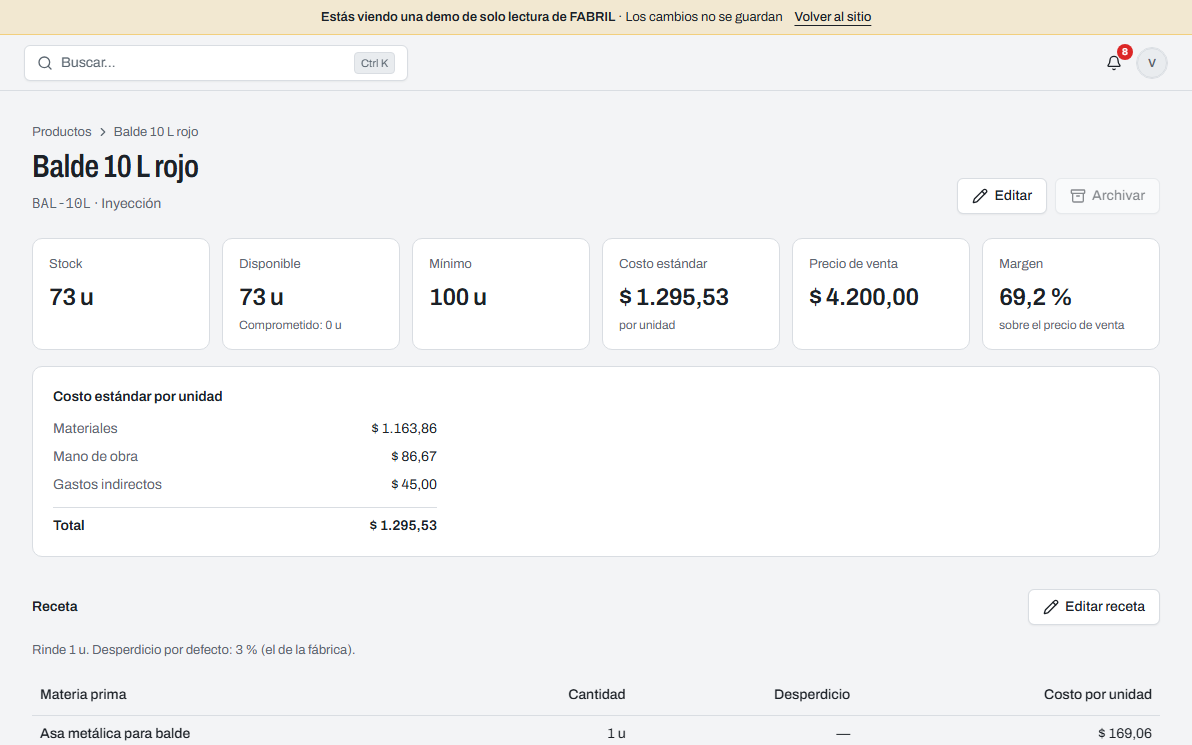
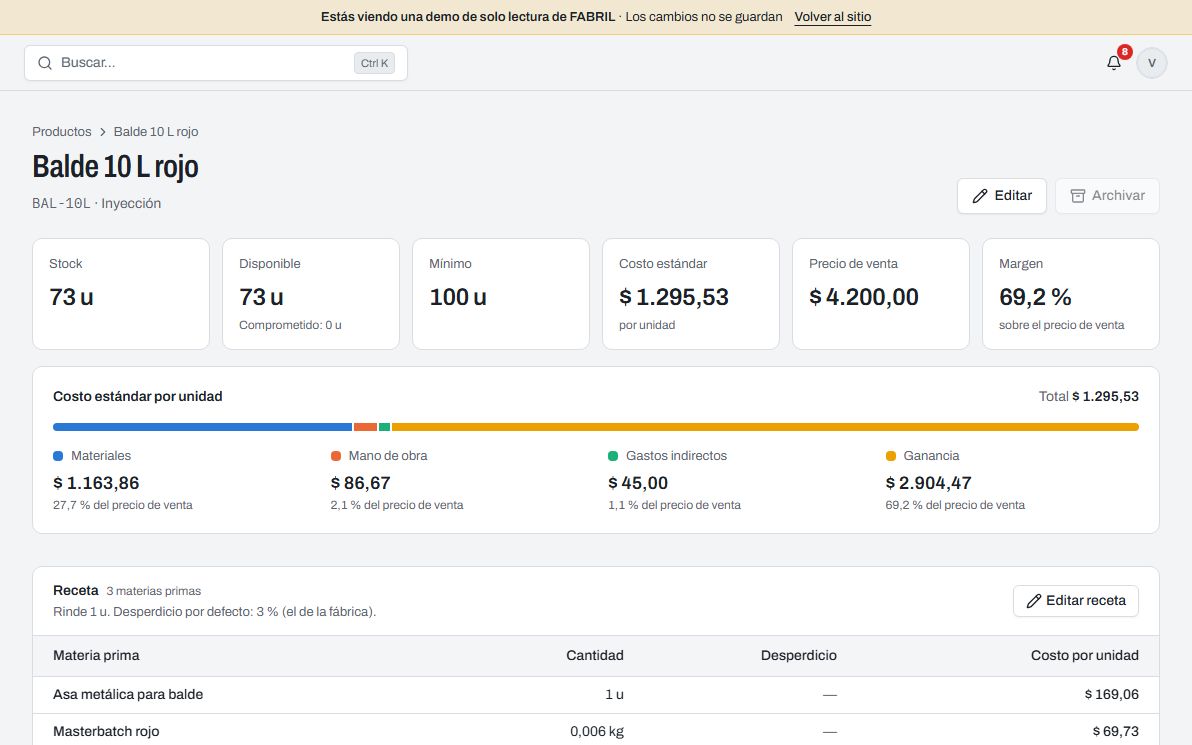
feat(landing): diagrama «Así se conecta todo», sección «Cómo está hecho» y capturas actualizadas

diff --git a/src/features/marketing/content.ts b/src/features/marketing/content.ts
@@ -1,8 +1,13 @@
 import {
   Calculator,
   ClipboardList,
+  Database,
+  Eye,
   Factory,
+  FlaskConical,
+  ShieldCheck,
   ShoppingCart,
+  Truck,
   Warehouse,
   type LucideIcon,
 } from "lucide-react";
@@ -10,6 +15,7 @@ import {
 export const NAV_LINKS = [
   { href: "#funcionalidades", label: "Funcionalidades" },
   { href: "#como-funciona", label: "Cómo funciona" },
+  { href: "#como-esta-hecho", label: "Cómo está hecho" },
   { href: "#preguntas", label: "Preguntas" },
 ] as const;
 
@@ -147,3 +153,73 @@ export const FAQ = [
     a: "No. FABRIL funciona en el navegador; sólo necesitás conexión a internet y tu usuario.",
   },
 ] as const;
+
+/**
+ * Diagrama del hero: qué pasa con el stock y el costo en cada paso. Sigue el ejemplo de la
+ * calculadora (Bidón 5 L azul: 0,25 kg de Polietileno AD por unidad + 3 % de desperdicio; había
+ * 200 kg y faltaban 57,5 kg para 1.000 unidades).
+ */
+export const FLOW: { title: string; body: string; result: string; icon: LucideIcon }[] = [
+  {
+    title: "Llega la compra",
+    body: "Recibís 500 kg de Polietileno AD a $ 1.000 el kilo.",
+    result: "Stock 700 kg · costo promedio al día",
+    icon: Truck,
+  },
+  {
+    title: "Planificás la orden",
+    body: "1.000 bidones: la receta pide 257,5 kg con el 3 % de desperdicio.",
+    result: "Alcanza: ya no falta material",
+    icon: ClipboardList,
+  },
+  {
+    title: "Producís",
+    body: "Al iniciar se descuentan los materiales; los partes suman 980 buenas y 20 defectuosas.",
+    result: "Quedan 442,5 kg de Polietileno AD",
+    icon: Factory,
+  },
+  {
+    title: "Cerrás con el costo real",
+    body: "Entran 980 bidones al stock, valorizados con lo que realmente se consumió.",
+    result: "$ 564 por unidad vs. $ 548 planificados",
+    icon: Calculator,
+  },
+];
+
+/** "Cómo está hecho": lo que la demo no muestra por sí sola. Todo verificable en el código. */
+export const BUILD_FACTS: { title: string; body: string; icon: LucideIcon }[] = [
+  {
+    title: "Cada fábrica, aislada en la base",
+    body: "Políticas de seguridad (RLS) en todas las tablas de Postgres: un usuario de otra fábrica no ve ni modifica nada, aunque arme el pedido a mano.",
+    icon: ShieldCheck,
+  },
+  {
+    title: "La lógica crítica vive en la base",
+    body: "Recibir compras, consumir materiales y cerrar órdenes son funciones de la base que corren en una sola transacción: el stock nunca queda a medias.",
+    icon: Database,
+  },
+  {
+    title: "Demo abierta, pero de solo lectura",
+    body: "Sin cuenta ni contraseña. El visitante no tiene permisos de escritura en la base y nunca ve quién hizo cada cosa.",
+    icon: Eye,
+  },
+  {
+    title: "Más de 1.000 pruebas automáticas",
+    body: "Unitarias, de componentes y de SQL contra un Postgres real (PGlite): stock, costos, permisos y aislamiento entre fábricas.",
+    icon: FlaskConical,
+  },
+];
+
+export const STACK = [
+  "Next.js 16",
+  "TypeScript",
+  "Supabase",
+  "PostgreSQL",
+  "Tailwind CSS",
+  "shadcn/ui",
+  "Recharts",
+  "Vitest",
+  "Playwright",
+] as const;
+
+export const REPO_URL = "https://github.com/FrancoCortez2000/fabril-test";

diff --git a/src/features/marketing/components/landing-extras.test.tsx b/src/features/marketing/components/landing-extras.test.tsx
@@ -1,0 +1,61 @@
+// @vitest-environment jsdom
+import { render, screen, within } from "@testing-library/react";
+
+import { BuiltWith } from "@/features/marketing/components/built-with";
+import { Hero } from "@/features/marketing/components/hero";
+import { SiteHeader } from "@/features/marketing/components/site-header";
+import { BUILD_FACTS, FLOW, STACK } from "@/features/marketing/content";
+
+describe("diagrama del hero: cómo se conecta todo", () => {
+  test("es una figura con título y los cuatro pasos en orden", () => {
+    render(<Hero />);
+    const figure = screen.getByRole("figure", { name: /Así se conecta todo/ });
+    const steps = within(figure).getAllByRole("listitem");
+    expect(steps).toHaveLength(4);
+    expect(steps.map((s) => within(s).getByRole("heading").textContent)).toEqual(
+      FLOW.map((f) => f.title),
+    );
+  });
+
+  test("sigue el ejemplo de la calculadora: la compra cubre los 57,5 kg que faltaban", () => {
+    render(<Hero />);
+    const figure = screen.getByRole("figure", { name: /Así se conecta todo/ });
+    expect(within(figure).getByText(/257,5 kg/)).toBeVisible();
+    expect(within(figure).getByText(/Ejemplo/)).toBeVisible();
+    expect(figure).toHaveTextContent(/costo real/i);
+  });
+
+  test("cada paso tiene un resultado (qué cambió en el stock o el costo)", () => {
+    for (const step of FLOW) {
+      expect(step.result.length).toBeGreaterThan(3);
+      expect(step.body.length).toBeGreaterThan(10);
+    }
+  });
+});
+
+describe("sección «Cómo está hecho»", () => {
+  test("es una región con los datos técnicos verificables y el stack", () => {
+    render(<BuiltWith />);
+    const region = screen.getByRole("region", { name: "Cómo está hecho" });
+    for (const fact of BUILD_FACTS) {
+      expect(within(region).getByRole("heading", { name: fact.title })).toBeVisible();
+    }
+    for (const tech of STACK) expect(within(region).getByText(tech)).toBeVisible();
+  });
+
+  test("enlaza al código en GitHub en una pestaña nueva y segura", () => {
+    render(<BuiltWith />);
+    const link = screen.getByRole("link", { name: /Ver el código en GitHub/ });
+    expect(link).toHaveAttribute("href", "https://github.com/FrancoCortez2000/fabril-test");
+    expect(link).toHaveAttribute("target", "_blank");
+    expect(link.getAttribute("rel")).toMatch(/noopener/);
+  });
+
+  test("el encabezado de la landing lleva a la sección", () => {
+    render(<SiteHeader />);
+    expect(screen.getByRole("link", { name: "Cómo está hecho" })).toHaveAttribute(
+      "href",
+      "#como-esta-hecho",
+    );
+  });
+});

diff --git a/src/features/marketing/components/flow-diagram.tsx b/src/features/marketing/components/flow-diagram.tsx
@@ -1,0 +1,60 @@
+import { ArrowDown, ArrowRight } from "lucide-react";
+
+import { FLOW } from "@/features/marketing/content";
+
+/**
+ * Diagrama "Así se conecta todo": el recorrido completo de una compra hasta el costo real, con el
+ * ejemplo de la calculadora. Es HTML (no una imagen): nítido, accesible y con modo oscuro.
+ */
+export function FlowDiagram() {
+  return (
+    <figure aria-labelledby="flujo-titulo" className="rounded-xl border bg-surface p-5 sm:p-7">
+      <div className="flex flex-wrap items-baseline justify-between gap-x-6 gap-y-1">
+        <h2 id="flujo-titulo" className="font-display text-2xl leading-tight sm:text-3xl">
+          Así se conecta todo
+        </h2>
+        <figcaption className="text-13 text-muted-foreground">
+          Ejemplo con el bidón de la calculadora: la compra cubre los 57,5 kg que faltaban.
+        </figcaption>
+      </div>
+
+      <ol className="mt-6 grid gap-8 lg:grid-cols-4 lg:gap-6">
+        {FLOW.map((step, i) => {
+          const Icon = step.icon;
+          const last = i === FLOW.length - 1;
+          return (
+            <li key={step.title} className="relative flex flex-col">
+              <div className="flex items-center gap-3">
+                <span className="flex size-9 shrink-0 items-center justify-center rounded-lg border bg-surface-2">
+                  <Icon aria-hidden className="size-4" />
+                </span>
+                <span className="font-mono text-xs text-muted-foreground" aria-hidden>
+                  Paso {i + 1}
+                </span>
+              </div>
+              <h3 className="mt-3 text-base font-semibold">{step.title}</h3>
+              <p className="mt-1.5 text-13 text-muted-foreground">{step.body}</p>
+              <p className="mt-3 border-l-2 border-brand pl-3 text-13 font-medium lg:mt-auto lg:pt-3">
+                {step.result}
+              </p>
+
+              {/* Flecha al paso siguiente: a la derecha en escritorio, abajo en el celular. */}
+              {last ? null : (
+                <>
+                  <ArrowRight
+                    aria-hidden
+                    className="absolute top-2 -right-5 hidden size-4 text-muted-foreground lg:block"
+                  />
+                  <ArrowDown
+                    aria-hidden
+                    className="absolute -bottom-7 left-3 size-4 text-muted-foreground lg:hidden"
+                  />
+                </>
+              )}
+            </li>
+          );
+        })}
+      </ol>
+    </figure>
+  );
+}

diff --git a/src/features/marketing/components/built-with.tsx b/src/features/marketing/components/built-with.tsx
@@ -1,0 +1,63 @@
+import { ExternalLink } from "lucide-react";
+
+import { Button } from "@/components/ui/button";
+import { BUILD_FACTS, REPO_URL, STACK } from "@/features/marketing/content";
+
+/** "Cómo está hecho": lo que la demo no puede mostrar (seguridad, base de datos y pruebas). */
+export function BuiltWith() {
+  return (
+    <section
+      id="como-esta-hecho"
+      aria-labelledby="como-esta-hecho-titulo"
+      className="scroll-mt-20 border-b"
+    >
+      <div className="mx-auto w-full max-w-6xl px-4 py-16 sm:px-6 lg:py-20">
+        <div className="flex flex-wrap items-end justify-between gap-6">
+          <div className="max-w-2xl">
+            <h2 id="como-esta-hecho-titulo" className="font-display text-4xl leading-tight">
+              Cómo está hecho
+            </h2>
+            <p className="mt-3 text-base text-muted-foreground">
+              Lo que no se ve en la demo: dónde vive la lógica, cómo se protegen los datos y cómo se
+              prueba.
+            </p>
+          </div>
+          <Button variant="outline" asChild>
+            <a href={REPO_URL} target="_blank" rel="noopener noreferrer">
+              Ver el código en GitHub
+              <ExternalLink aria-hidden />
+            </a>
+          </Button>
+        </div>
+
+        <ul className="mt-10 grid gap-4 sm:grid-cols-2">
+          {BUILD_FACTS.map((fact) => {
+            const Icon = fact.icon;
+            return (
+              <li key={fact.title} className="flex gap-4 rounded-xl border bg-surface p-5">
+                <span className="flex size-9 shrink-0 items-center justify-center rounded-lg border bg-surface-2">
+                  <Icon aria-hidden className="size-4" />
+                </span>
+                <div className="min-w-0">
+                  <h3 className="text-base font-semibold">{fact.title}</h3>
+                  <p className="mt-1.5 text-13 text-muted-foreground">{fact.body}</p>
+                </div>
+              </li>
+            );
+          })}
+        </ul>
+
+        <div className="mt-8">
+          <p className="text-xs font-medium text-muted-foreground">Tecnologías</p>
+          <ul className="mt-2 flex flex-wrap gap-2" aria-label="Tecnologías">
+            {STACK.map((tech) => (
+              <li key={tech} className="rounded-md border bg-surface px-2.5 py-1 font-mono text-xs">
+                {tech}
+              </li>
+            ))}
+          </ul>
+        </div>
+      </div>
+    </section>
+  );
+}

diff --git a/src/features/marketing/components/hero.tsx b/src/features/marketing/components/hero.tsx
@@ -2,7 +2,7 @@ import Link from "next/link";
 
 import { Button } from "@/components/ui/button";
 import { BomCalculator } from "@/features/marketing/components/bom-calculator";
-import { ScreenshotFrame } from "@/features/marketing/components/screenshot-frame";
+import { FlowDiagram } from "@/features/marketing/components/flow-diagram";
 
 export function Hero() {
   return (
@@ -31,10 +31,7 @@ export function Hero() {
         <BomCalculator />
       </div>
       <div className="mx-auto w-full max-w-6xl px-4 pb-16 sm:px-6 lg:pb-24">
-        <ScreenshotFrame
-          label="Dashboard de FABRIL con datos de demostración"
-          src="/capturas/dashboard.png"
-        />
+        <FlowDiagram />
       </div>
     </section>
   );

diff --git a/src/app/(marketing)/page.tsx b/src/app/(marketing)/page.tsx
@@ -1,6 +1,7 @@
 import { SkipLink } from "@/components/layout/skip-link";
 import type { Metadata } from "next";
 
+import { BuiltWith } from "@/features/marketing/components/built-with";
 import { DemoSection } from "@/features/marketing/components/demo-section";
 import { Faq } from "@/features/marketing/components/faq";
 import { Hero } from "@/features/marketing/components/hero";
@@ -32,6 +33,7 @@ export default function LandingPage() {
         <Problems />
         <ModulesShowcase />
         <HowItWorks />
+        <BuiltWith />
         <Faq />
         <DemoSection />
       </main>

diff --git a/src/features/marketing/components/screenshot-frame.test.tsx b/src/features/marketing/components/screenshot-frame.test.tsx
@@ -47,10 +47,7 @@ test("la sección de funcionalidades muestra una captura por módulo", () => {
   }
 });
 
-test("el hero muestra la captura del dashboard", () => {
+test("el hero ya no muestra la captura del Inicio (es lo primero que se ve en la demo)", () => {
   render(<Hero />);
-  expect(screen.getByRole("img", { name: /Dashboard/ })).toHaveAttribute(
-    "src",
-    "/capturas/dashboard.png",
-  );
+  expect(screen.queryByRole("img", { name: /Dashboard/ })).toBeNull();
 });
